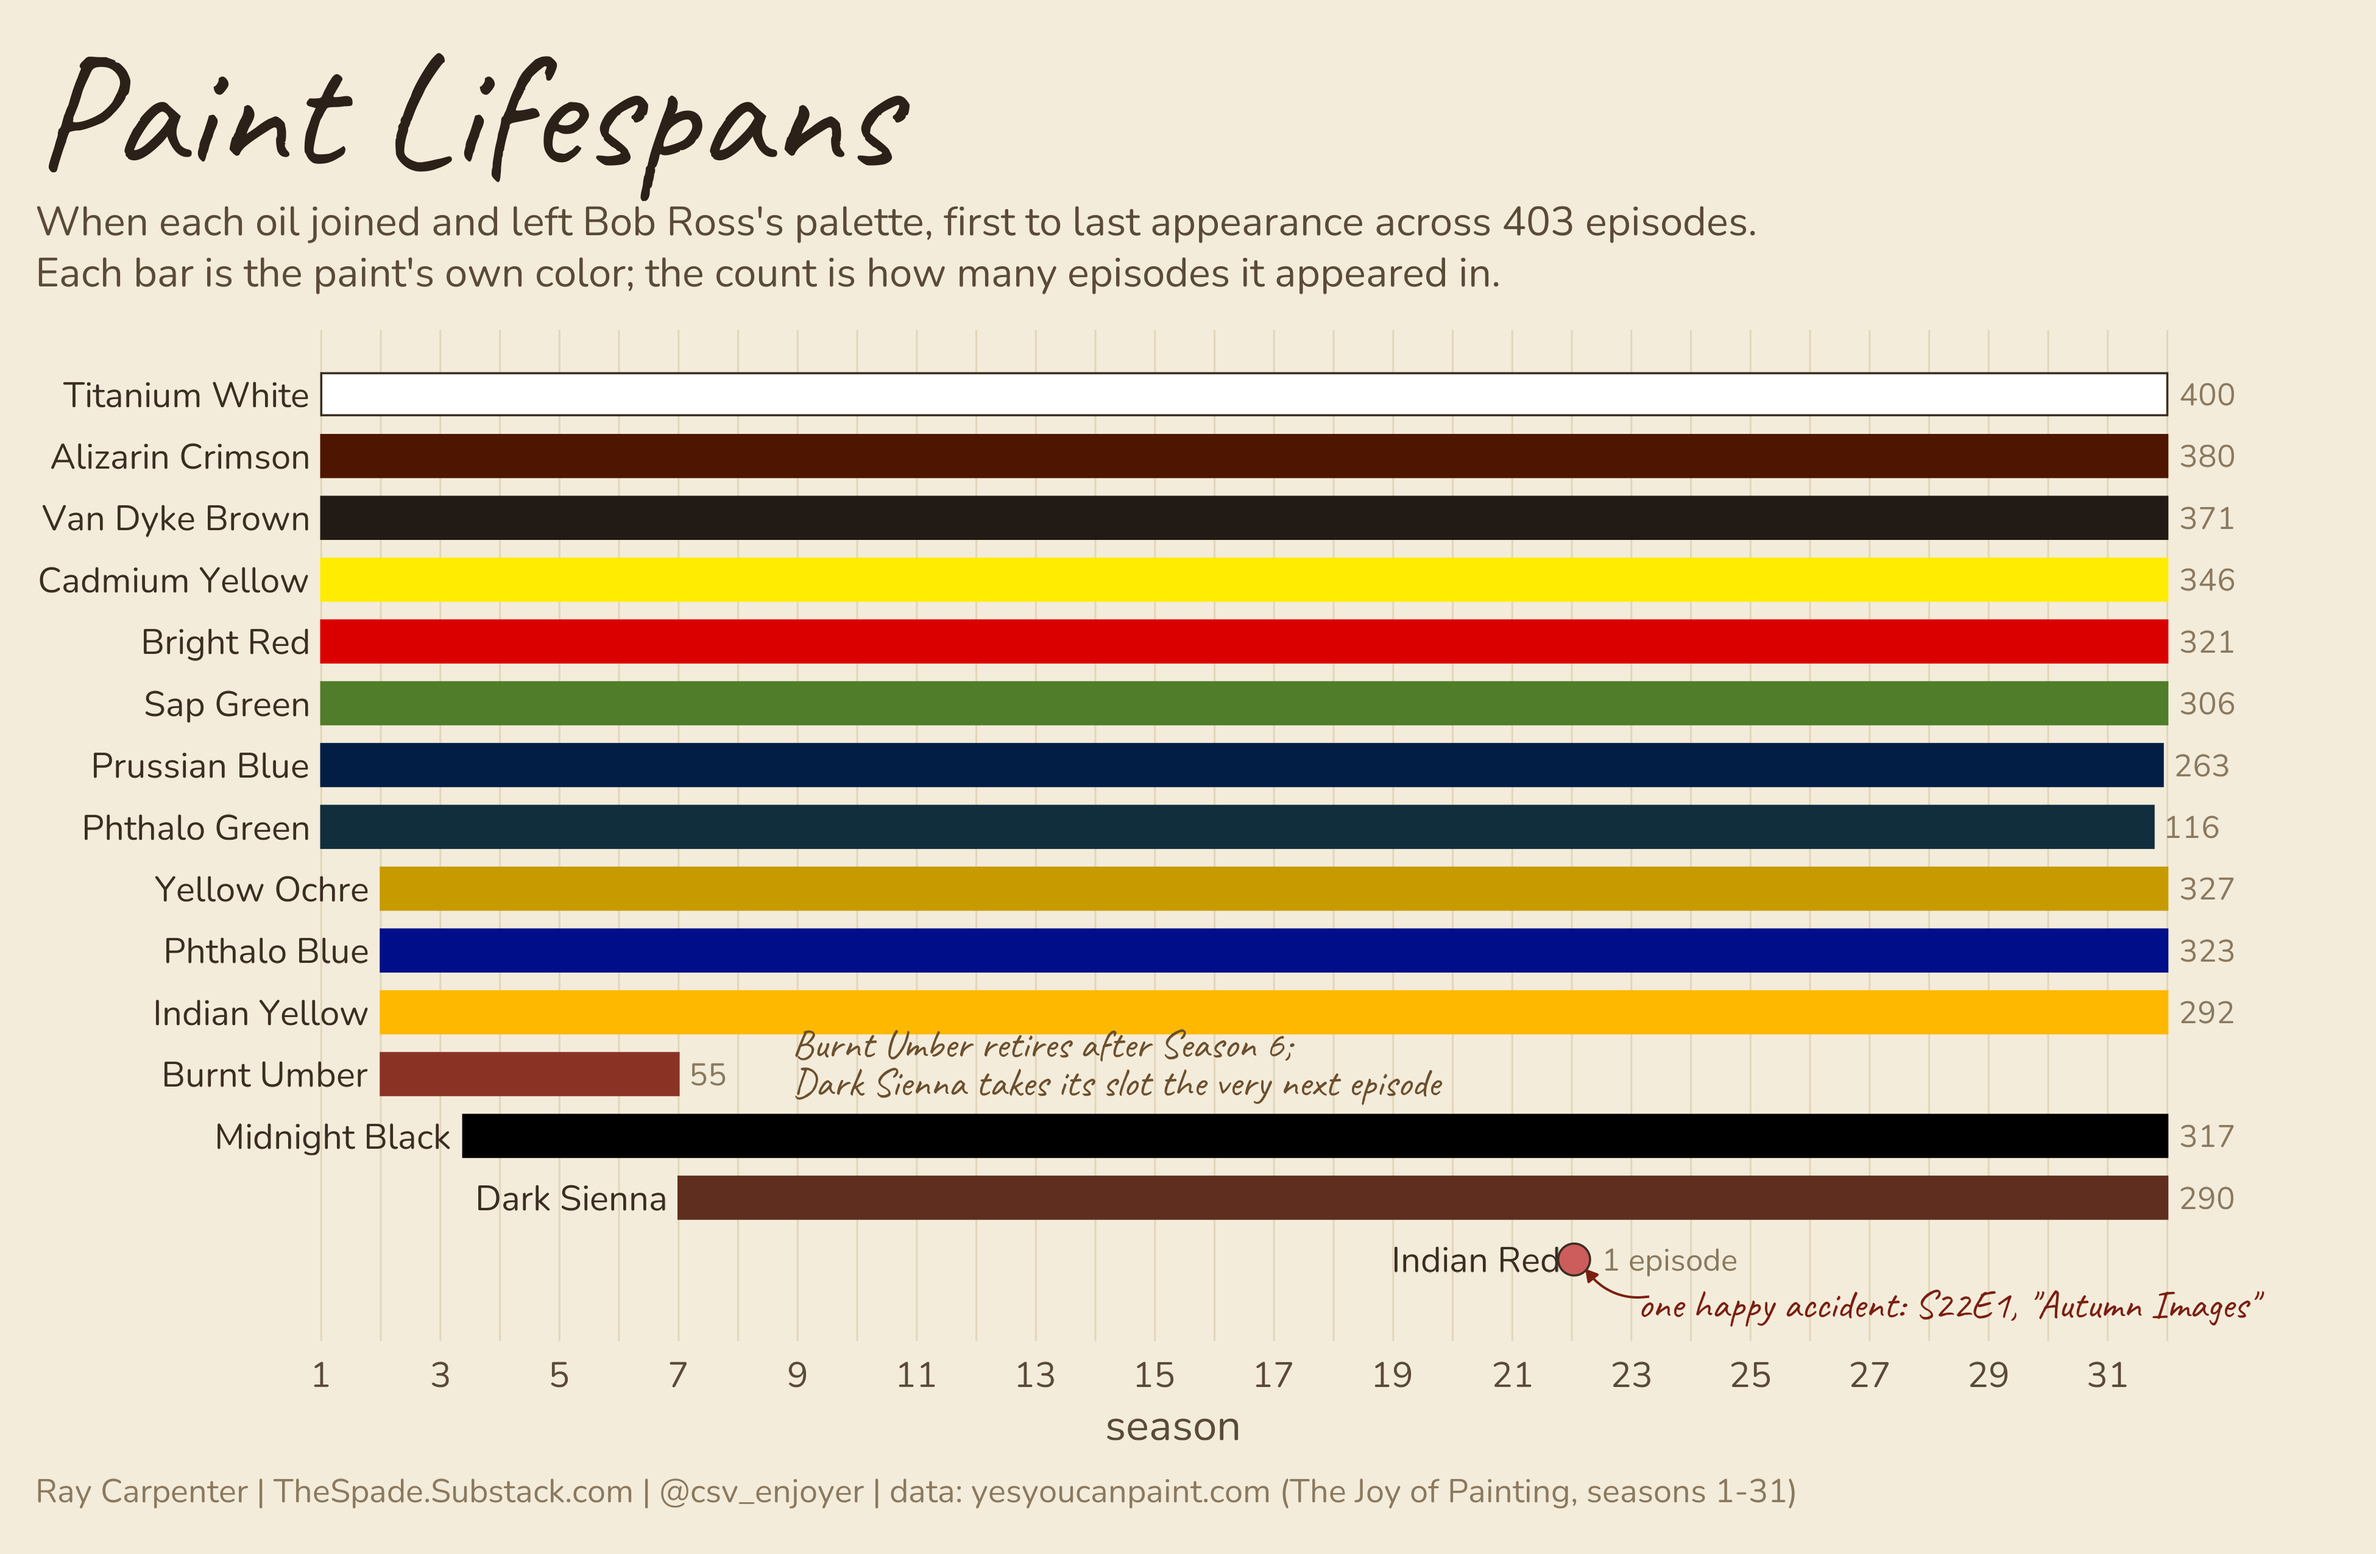
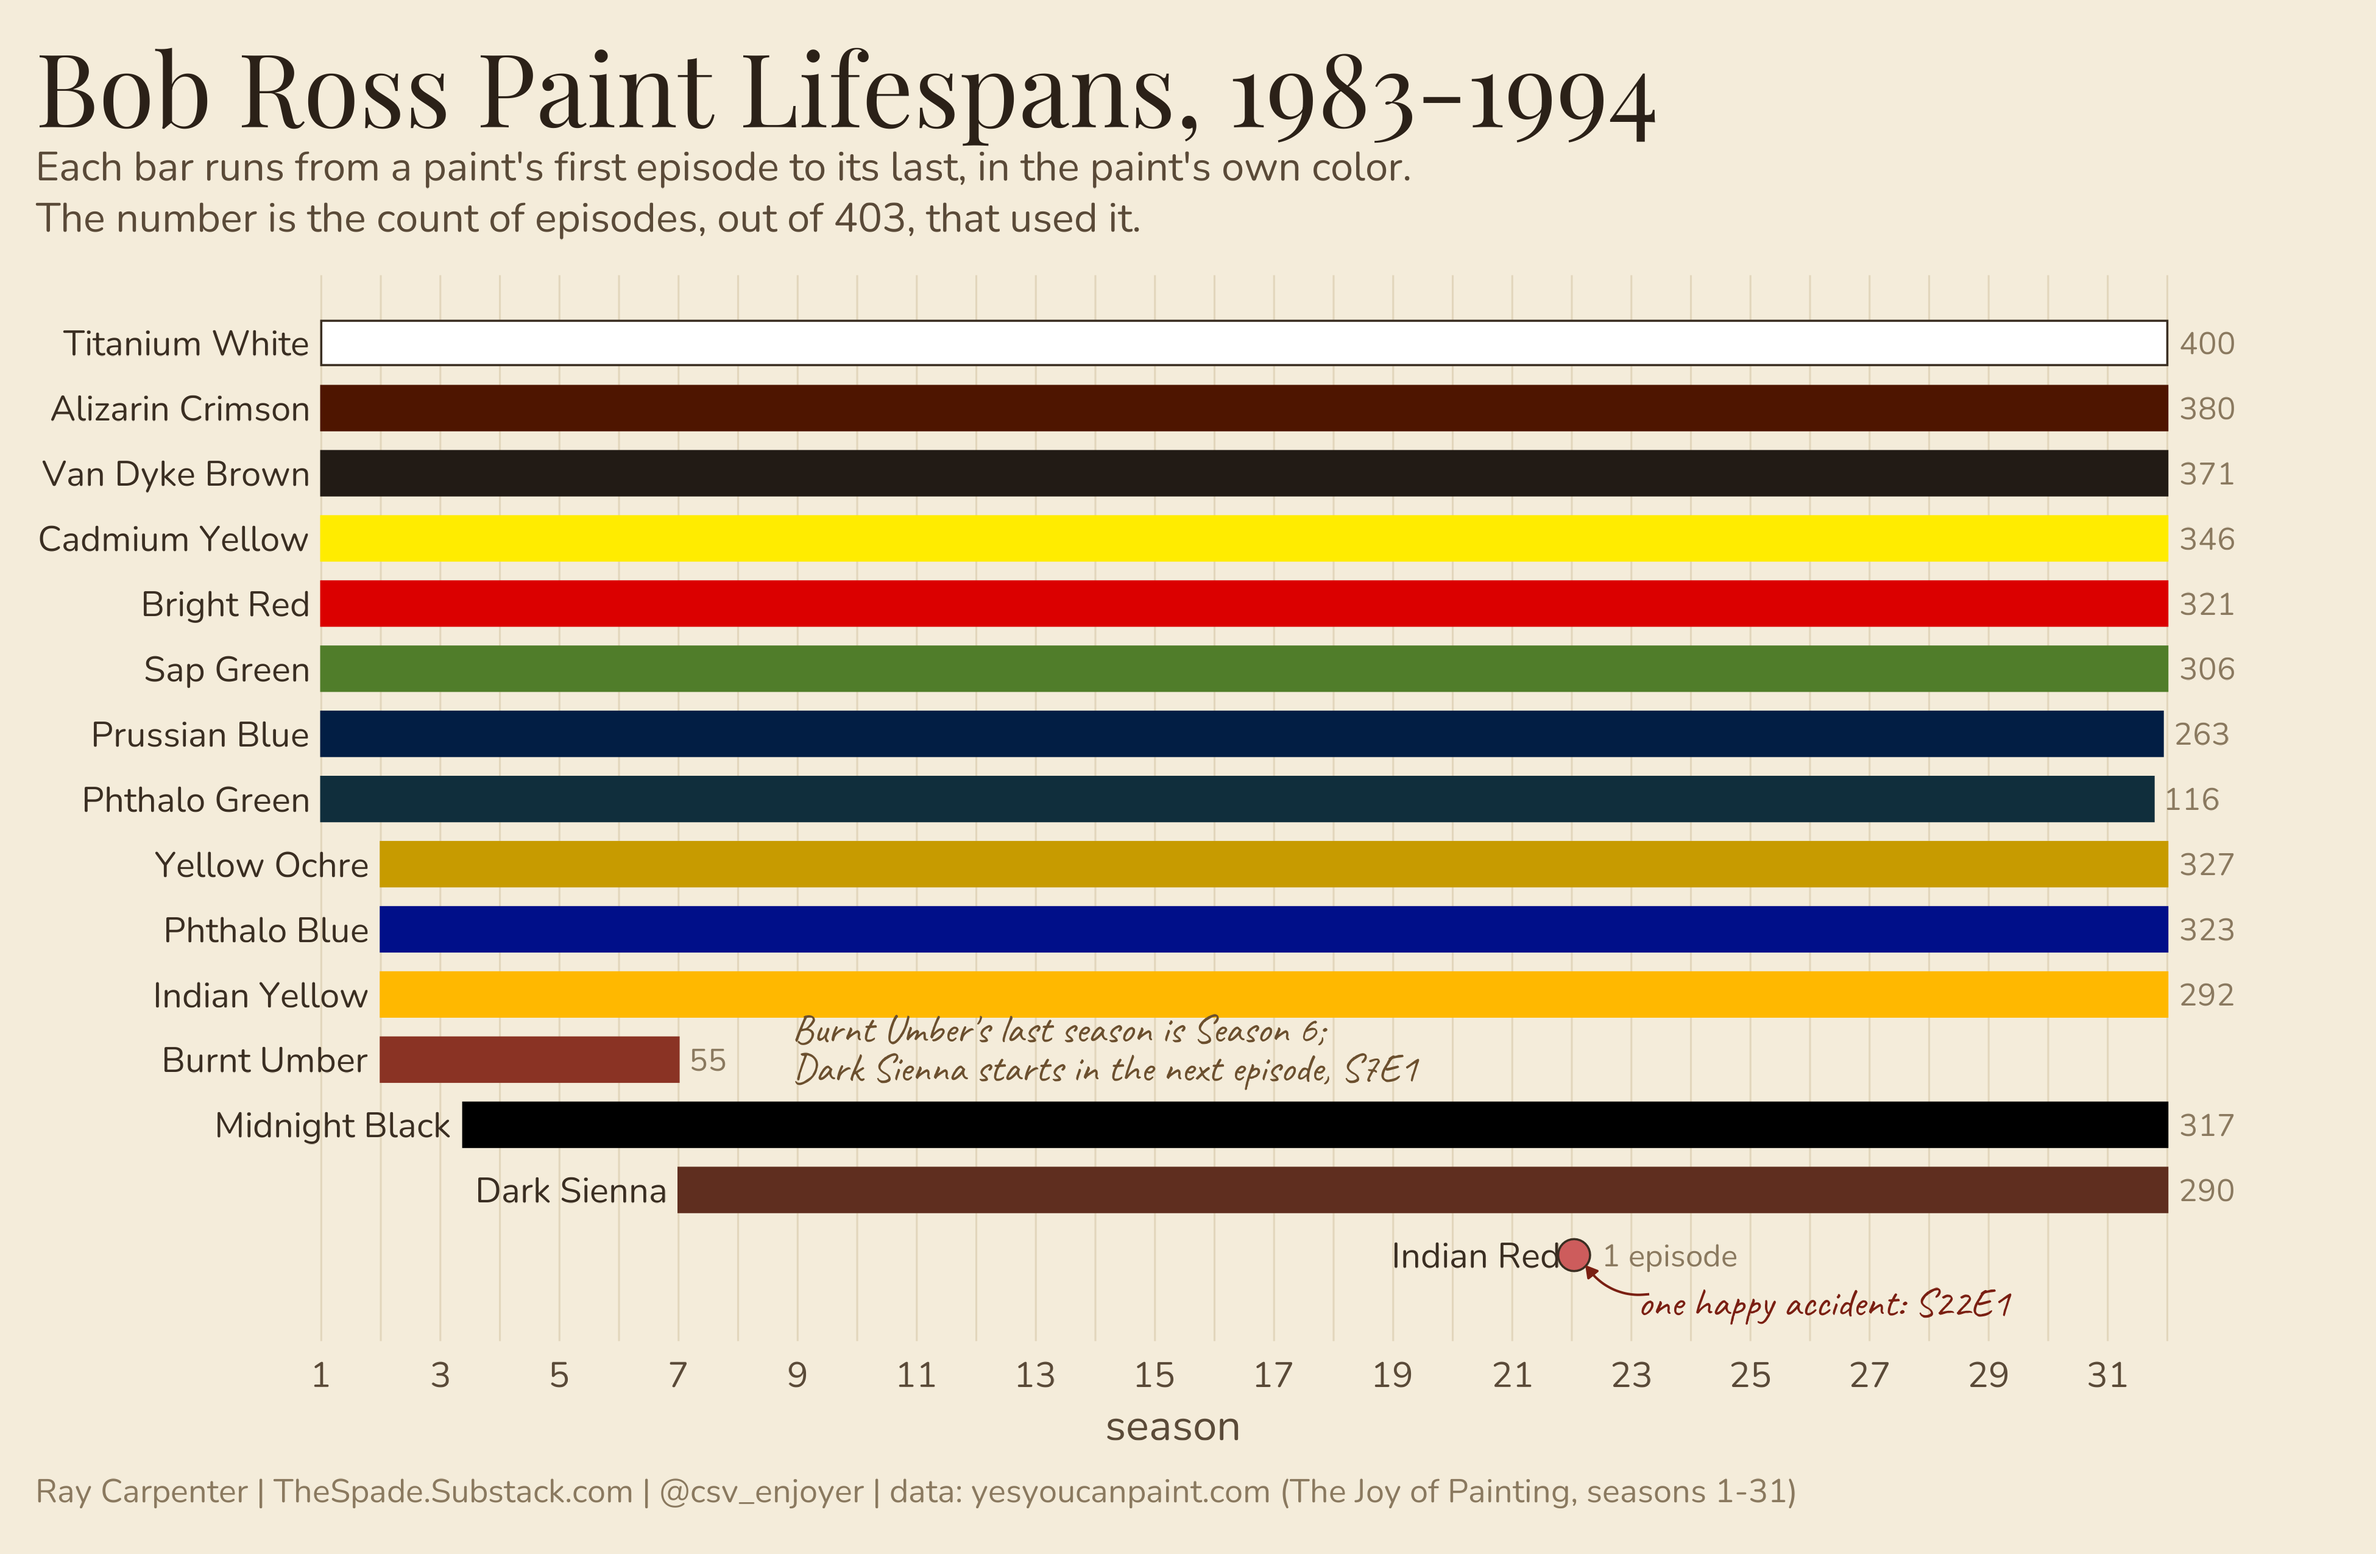
Retitle the chart set, tighten subtitles and captions, add palette novelty
Title Case Playfair titles across all charts; subtitles state what each
mark shows, counts and model details move to captions. Fixes the Season 7
novelty note (11 of 13 new, not all) and the snow-scene definition.

diff --git a/README.md b/README.md
@@ -17,7 +17,7 @@ clouds, mountains, cabins) from FiveThirtyEight's subject tags.
 | `analysis/` | Palette clustering, subject/palette association, snow-scene model |
 | `viz/` | Chart scripts (R) and rendered PNGs |
 
-The `.db` is gitignored — rebuild it locally:
+The `.db` is gitignored: rebuild it locally:
 
 ```bash
 ./build.sh
@@ -25,14 +25,14 @@ The `.db` is gitignored — rebuild it locally:
 
 ## Schema
 
-- **colors** — `id`, `name` (unique), `hex` (validated `#RRGGBB`)
-- **episodes** — `id`, `season`, `episode`, `title`, `youtube_url` (unique on `season, episode`)
-- **episode_colors** — junction of `episode_id` ↔ `color_id`
-- **v_episode_palette** — flattened view: season, episode, title, color, hex
-- **elements** — `id`, `name`: the 67 FiveThirtyEight tags, lowercased (`tree`,
+- **colors**: `id`, `name` (unique), `hex` (validated `#RRGGBB`)
+- **episodes**: `id`, `season`, `episode`, `title`, `youtube_url` (unique on `season, episode`)
+- **episode_colors**: junction of `episode_id` ↔ `color_id`
+- **v_episode_palette**: flattened view: season, episode, title, color, hex
+- **elements**: `id`, `name`: the 67 FiveThirtyEight tags, lowercased (`tree`,
   `clouds`, `cabin`, frame types, guest painters, ...)
-- **episode_elements** — junction of `episode_id` ↔ `element_id`
-- **v_episode_elements** — flattened view: season, episode, title, element
+- **episode_elements**: junction of `episode_id` ↔ `element_id`
+- **v_episode_elements**: flattened view: season, episode, title, element
 
 ## Example queries
 
@@ -60,16 +60,21 @@ GROUP BY p.color ORDER BY pct DESC;
 
 ## Analysis
 
-Two scripts in `analysis/`, both run from the repo root after `./build.sh`:
+Three scripts in `analysis/`, all run from the repo root after `./build.sh`:
 
-- `explore.R` — k-medoids palette archetypes (Jaccard distance over the 403×15
+- `explore.R`: k-medoids palette archetypes (Jaccard distance over the 403×15
   presence matrix) and subject→palette association from keyword-tagged titles
   (Fisher tests, BH-corrected). Three archetypes fall out: the early Burnt Umber
   palette (S1–6), the later standard kit, and a cross-era winter palette.
-- `snow_predict.R` — can you guess a snow scene from the palette alone? A
+- `snow_predict.R`: can you guess a snow scene from the palette alone? A
   one-feature logistic (count of warm/green paints present) hits 0.90 AUC under
   stratified 5-fold CV. The depth-2 tree version: no Cadmium Yellow and no Sap
   Green → 70% chance it's a snow scene.
+- `novelty.R`: palette novelty index: each episode's Jaccard distance to the
+  closest loadout Bob Ross had already used (0 = exact repeat). Novelty decays from
+  0.14 in Season 1 to 0.01 by Season 31; 67% of all episodes reran an earlier
+  palette exactly, and the only forced spike is Season 7, when Dark Sienna
+  replaced Burnt Umber.
 
 Each saves an `.rds` (gitignored) that the corresponding chart script reads.
 
@@ -80,13 +85,14 @@ Scripts in `viz/`, run from the repo root (`Rscript viz/color_pie.R`).
 (grouped in `viz/_subjects.R`, so `tree`, `trees`, `conifer`, ... count as one "Trees").
 
 ![Every color Bob Ross used](viz/color_pie.png)
-![31 seasons of color](viz/31_seasons_of_color.png)
-![Paint lifespans](viz/paint_lifespans.png)
-![The standard kit](viz/standard_kit.png)
-![Bob's fifteen paints, ranked](viz/color_frequency_3d.png)
-![Guessing snow from Bob's palette](viz/snow_from_palette.png)
+![Bob Ross paint use by season](viz/31_seasons_of_color.png)
+![Bob Ross paint lifespans](viz/paint_lifespans.png)
+![The eight palettes Bob Ross used most](viz/standard_kit.png)
+![Bob Ross paints ranked by episodes](viz/color_frequency_3d.png)
+![Guessing a Bob Ross snow scene from his palette](viz/snow_from_palette.png)
 ![What Bob Ross painted](viz/subjects_3d.png)
 ![Paints Bob Ross used by subject](viz/paints_by_subject.png)
+![How new each Bob Ross palette was](viz/palette_novelty.png)
 
 ## Adding a season
 
@@ -110,7 +116,7 @@ The subject tags come from Walt Hickey's
 (FiveThirtyEight, 2014). The CSV is copied as-is from
 [fivethirtyeight/data](https://github.com/fivethirtyeight/data/tree/master/bob-ross)
 and used under [CC BY 4.0](https://github.com/fivethirtyeight/data/blob/master/LICENSE).
-Their data has what Bob painted but not the paints he used. With both in one
+Their data has what Bob Ross painted but not the paints he used. With both in one
 database you can ask which paints go with which subjects.
 
 Episodes join on season and episode number (all 403 match). About 30 titles are
